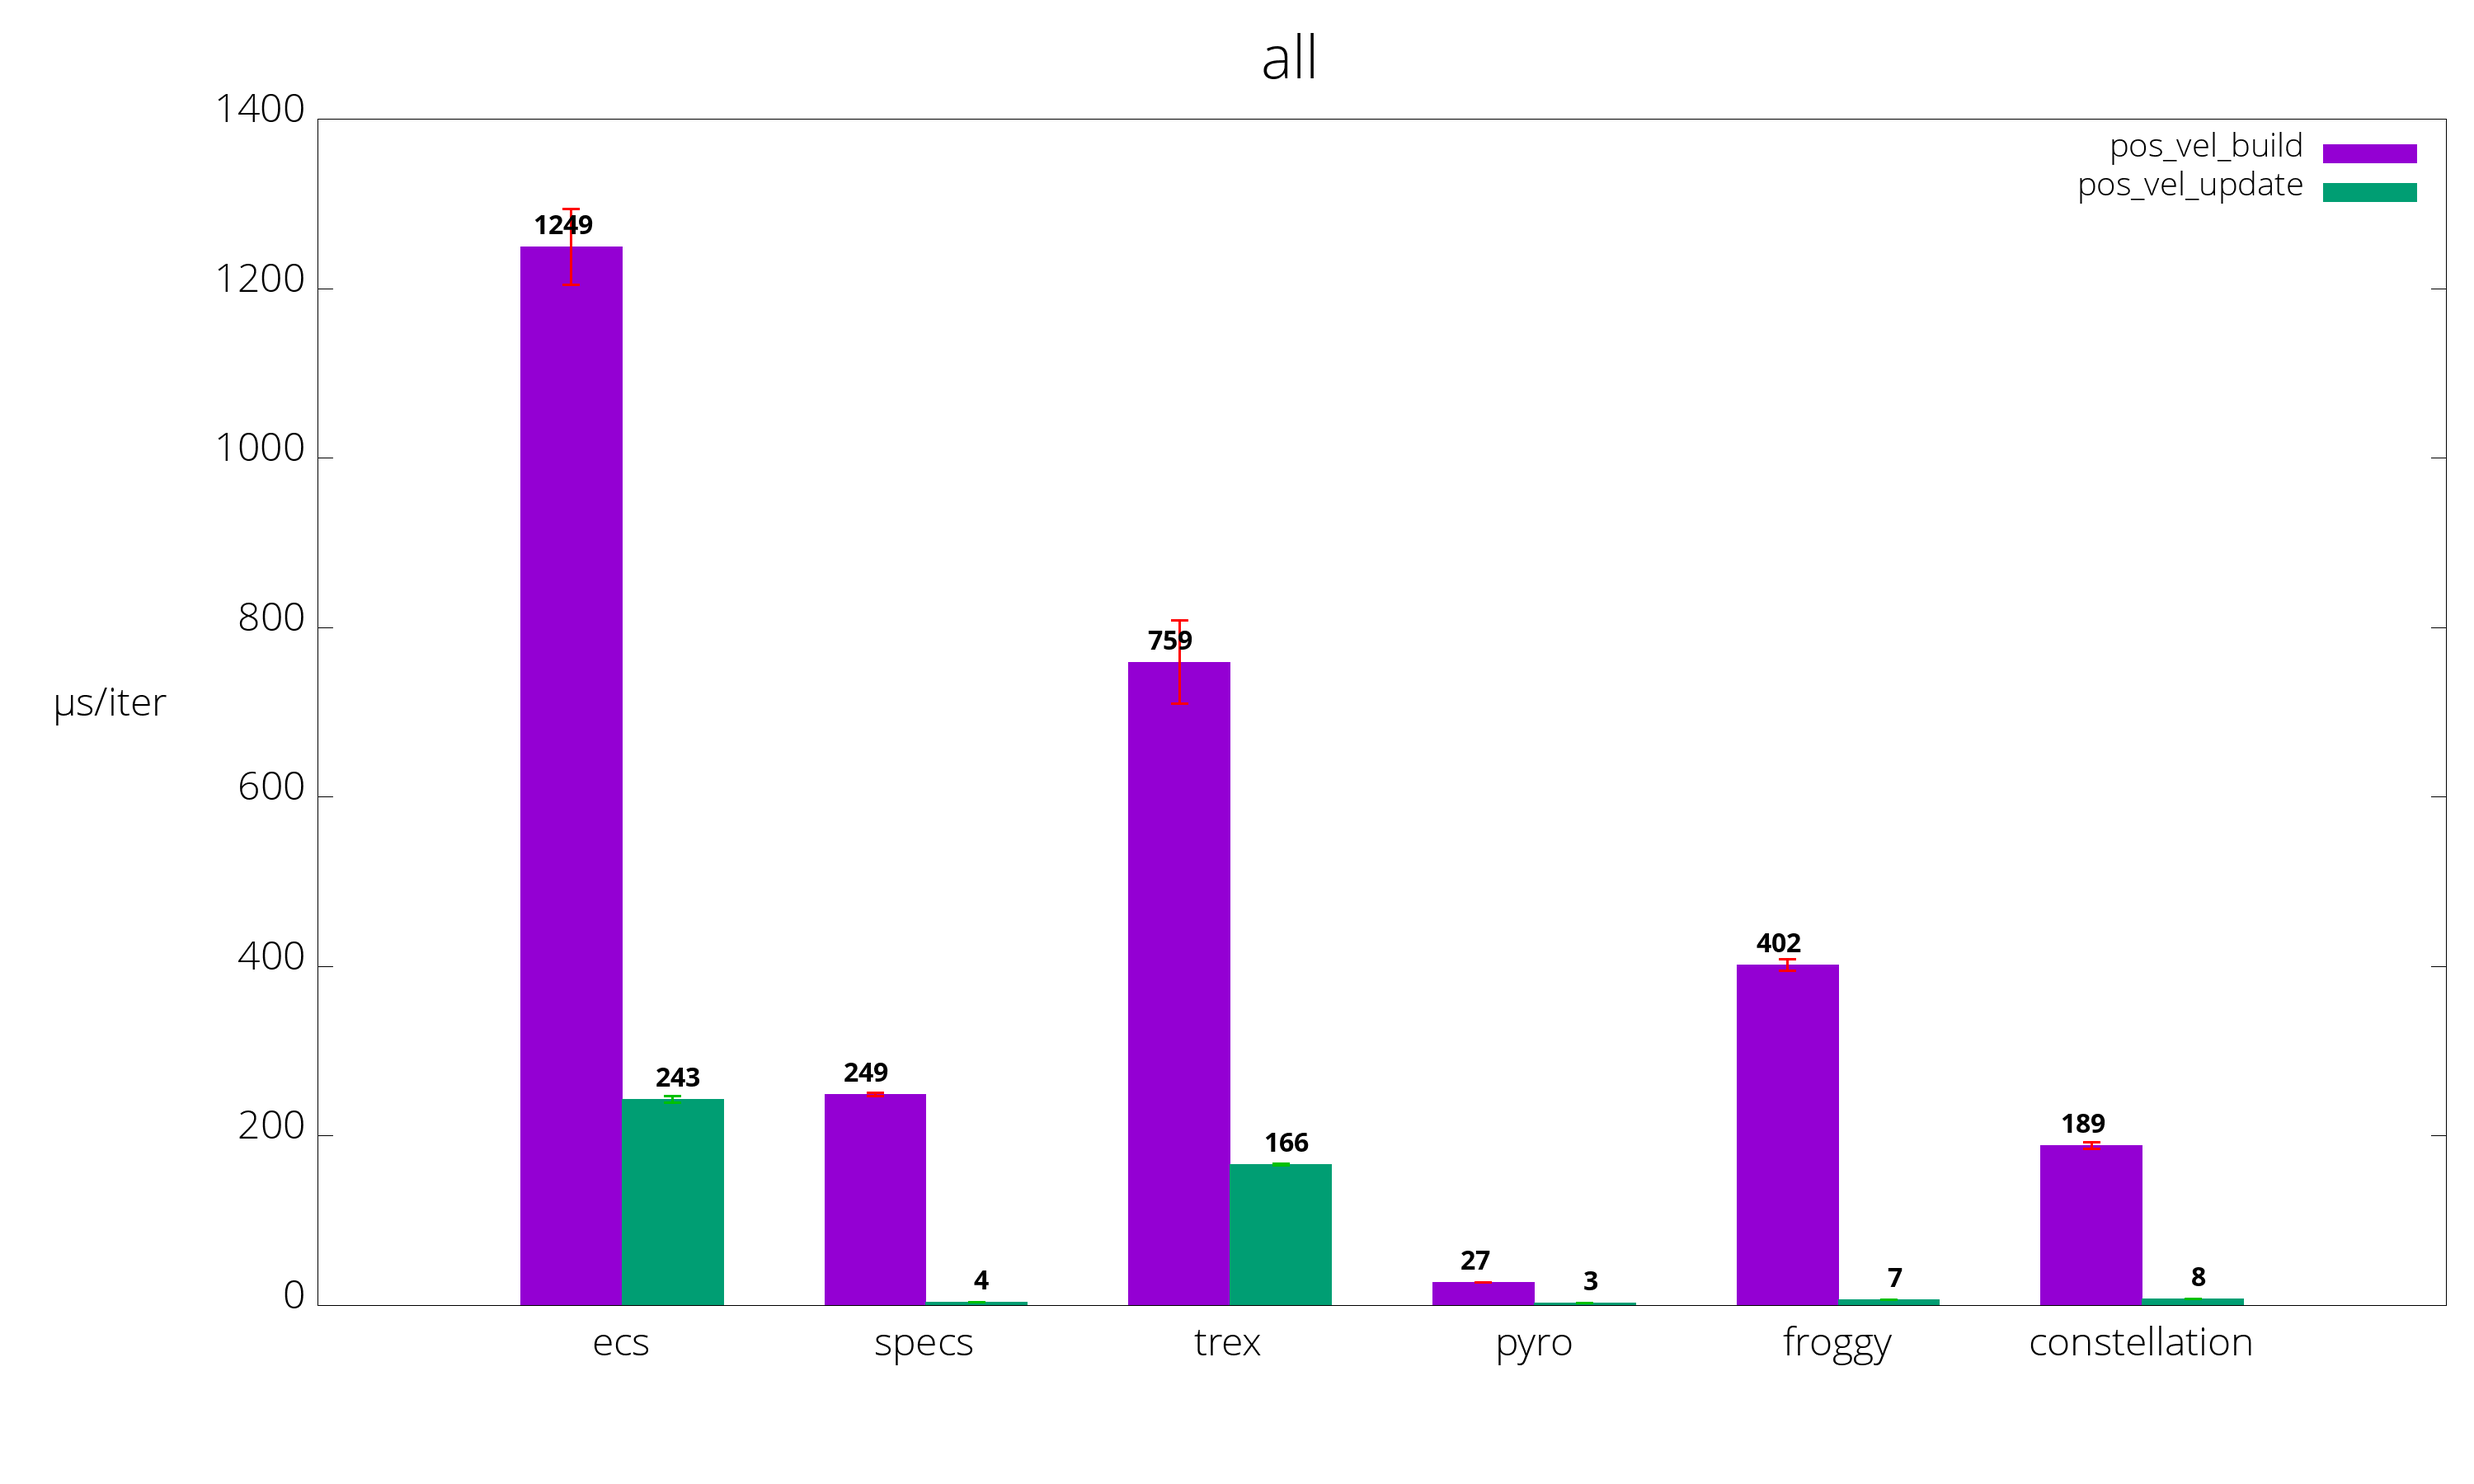
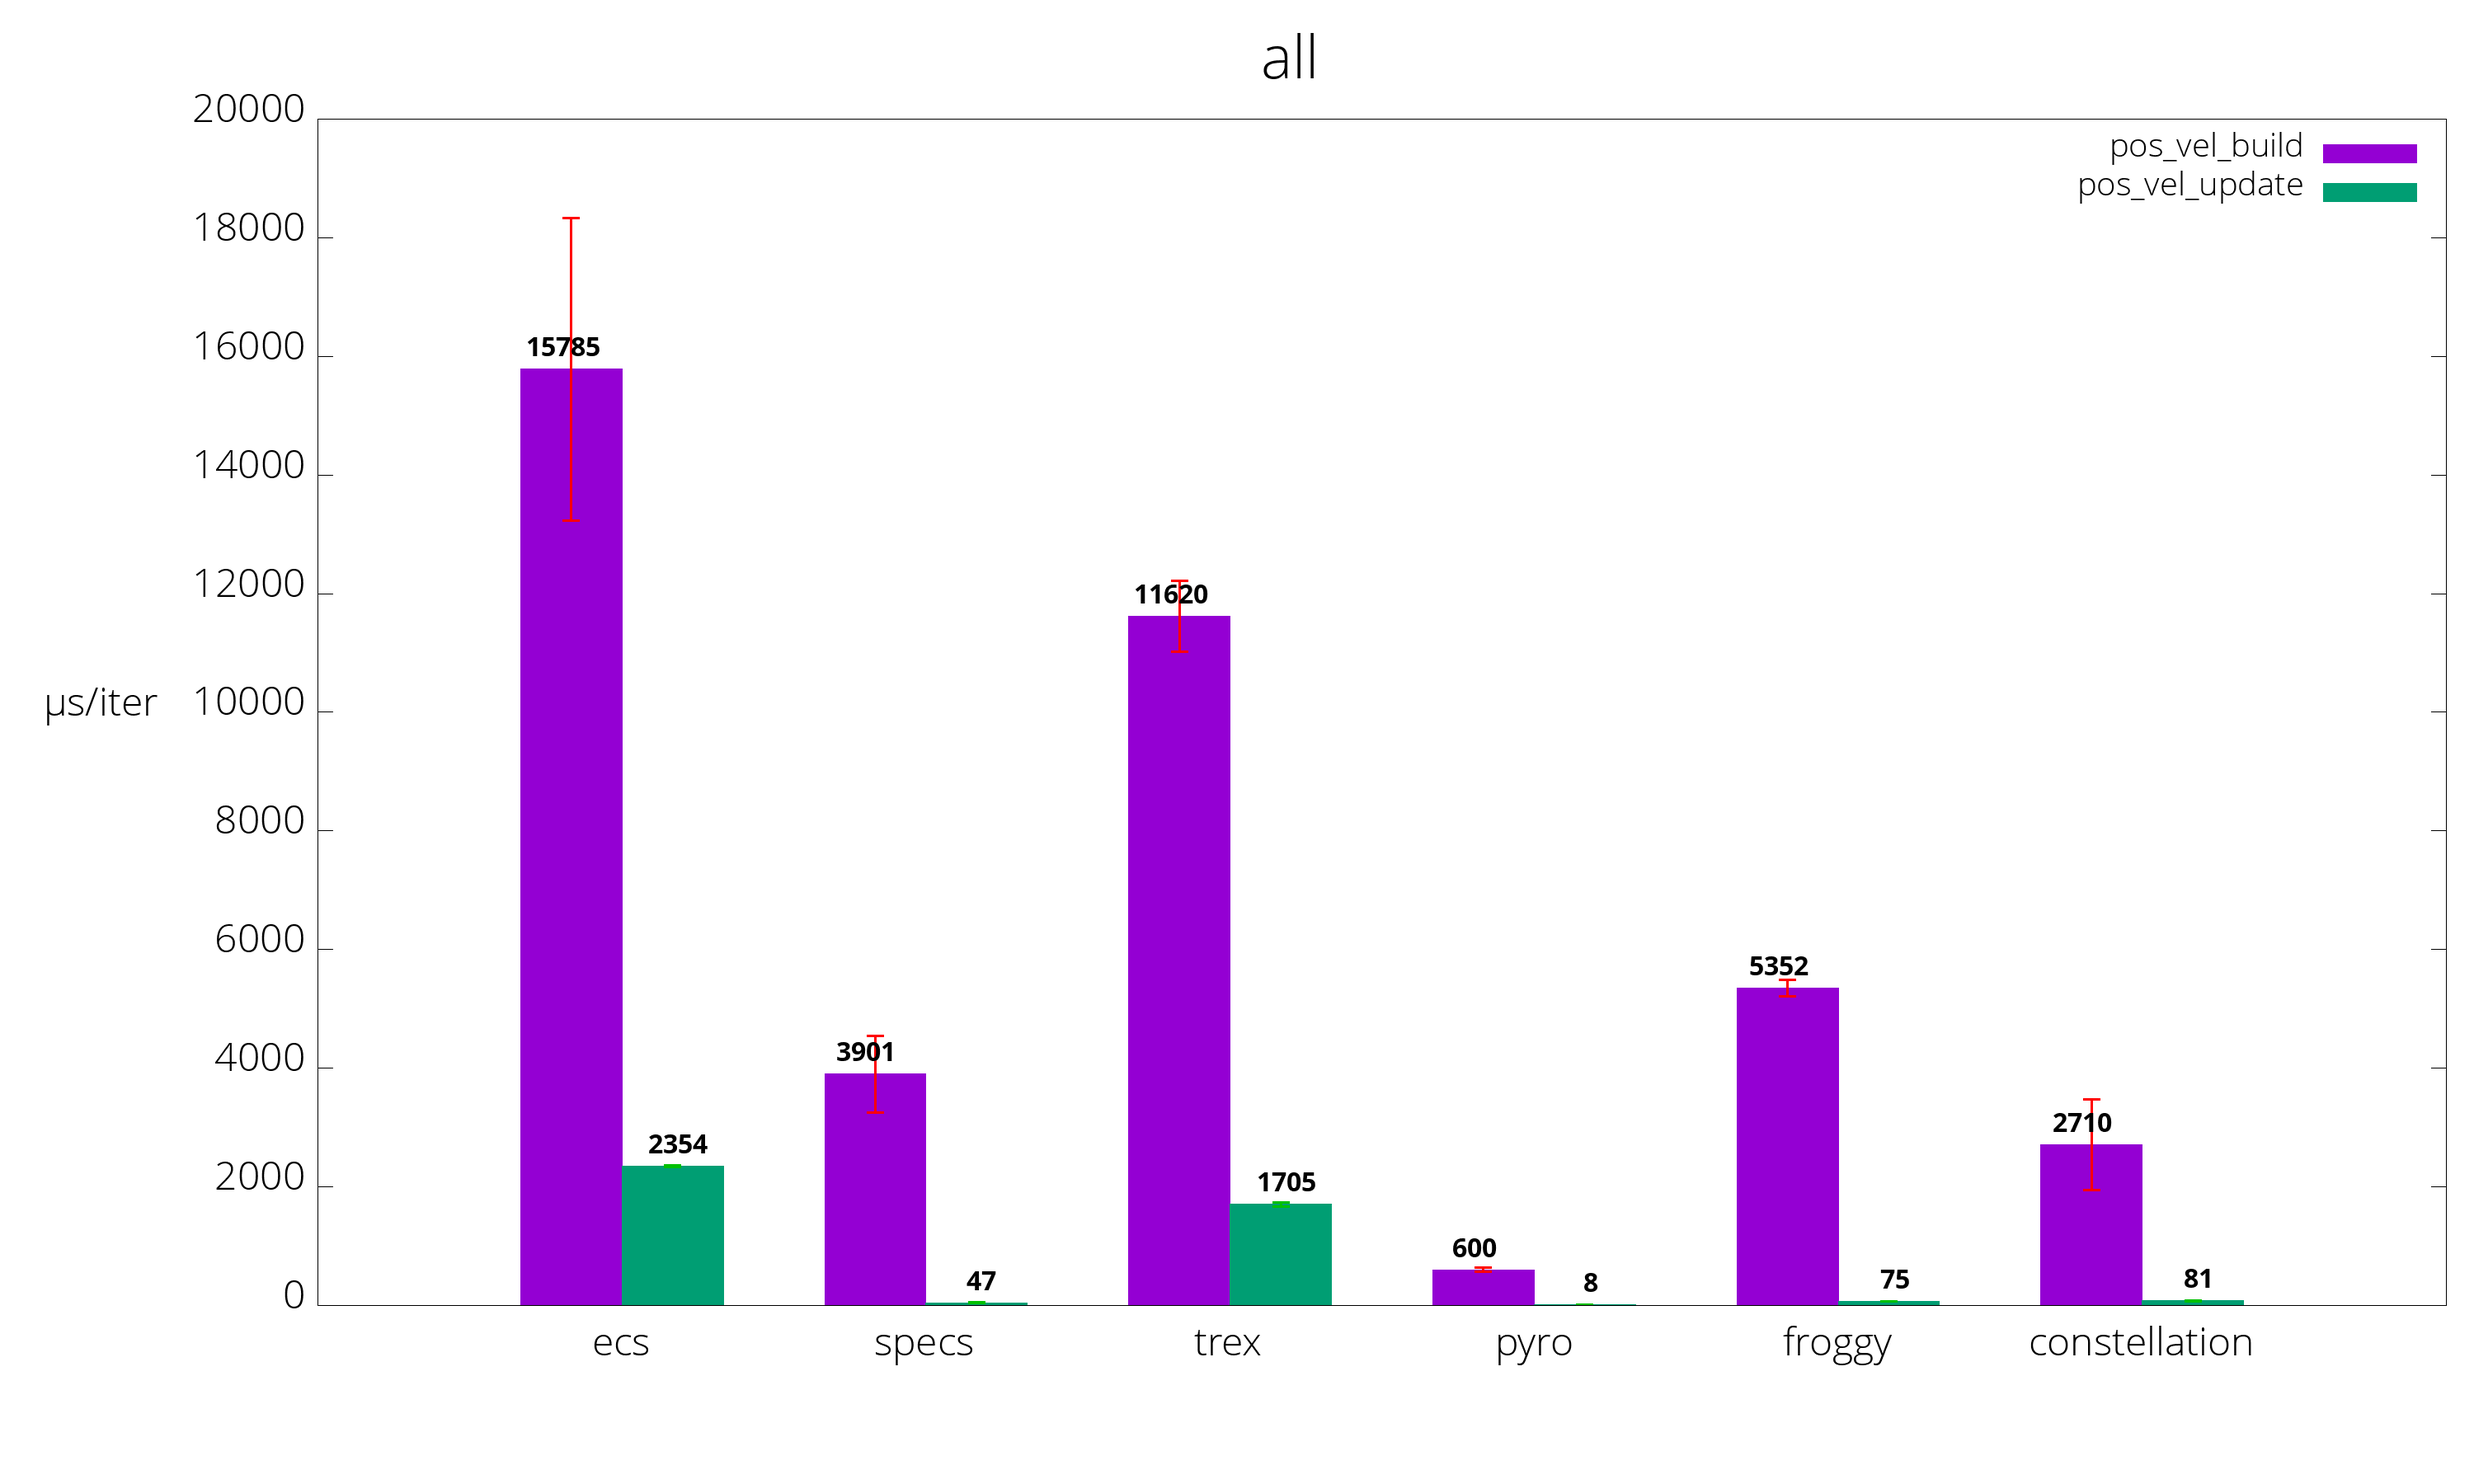
Update pyro

diff --git a/benches/pos_vel_pyro.rs b/benches/pos_vel_pyro.rs
@@ -32,8 +32,8 @@ fn build() -> World {
         .filter(|i| i % N_POS_PER_VEL == 0)
         .map(|_| (Position { x: 0.0, y: 0.0 }, Velocity { dx: 0.0, dy: 0.0 }));
 
-    world.add_entity(only_pos);
-    world.add_entity(pos_vel);
+    world.append_components(only_pos);
+    world.append_components(pos_vel);
     world
 }
 

diff --git a/src/lib.rs b/src/lib.rs
@@ -8,7 +8,7 @@ pub mod pos_vel {
     pub const N_POS_PER_VEL: usize = 10;
 
     /// Entities with position component only.
-    pub const N_POS: usize = 10000;
+    pub const N_POS: usize = 100000;
 
     #[derive(Copy, Clone, Debug, PartialEq, Serialize, Deserialize)]
     pub struct Position {

diff --git a/README.md b/README.md
@@ -8,11 +8,11 @@ Benchmarks are located in `benches/[bench_name]_[ecs_crate_name].rs`.
  Library         | pos_vel build                 | pos_vel update                 | parallel build                 | parallel update
  --------------- |:-----------------------------:|:------------------------------:|:------------------------------:|:--------------------------------:
  [calx-ecs]      | {pos_vel_build_calx_ecs}      | {pos_vel_update_calx_ecs}      | {parallel_build_calx_ecs}      | {parallel_update_calx_ecs}
- [constellation] | 189 µs/iter (+/- 4) | 8 µs/iter (+/- 0) | {parallel_build_constellation} | {parallel_update_constellation}
- [ecs]           | 1,249 µs/iter (+/- 45)           | 243 µs/iter (+/- 4)           | {parallel_build_ecs}           | {parallel_update_ecs}
- [froggy]        | 402 µs/iter (+/- 7)        | 7 µs/iter (+/- 0)        | {parallel_build_froggy}        | {parallel_update_froggy}
- [specs]         | 249 µs/iter (+/- 2)         | 4 µs/iter (+/- 0)         | {parallel_build_specs}         | {parallel_update_specs}
- [trex]          | 759 µs/iter (+/- 49)          | 166 µs/iter (+/- 1)          | {parallel_build_trex}          | {parallel_update_trex}
+ [constellation] | 2,710 µs/iter (+/- 765) | 81 µs/iter (+/- 7) | {parallel_build_constellation} | {parallel_update_constellation}
+ [ecs]           | 15,785 µs/iter (+/- 2,554)           | 2,354 µs/iter (+/- 15)           | {parallel_build_ecs}           | {parallel_update_ecs}
+ [froggy]        | 5,352 µs/iter (+/- 137)        | 75 µs/iter (+/- 0)        | {parallel_build_froggy}        | {parallel_update_froggy}
+ [specs]         | 3,901 µs/iter (+/- 645)         | 47 µs/iter (+/- 2)         | {parallel_build_specs}         | {parallel_update_specs}
+ [trex]          | 11,620 µs/iter (+/- 594)          | 1,705 µs/iter (+/- 31)          | {parallel_build_trex}          | {parallel_update_trex}
 
 [calx-ecs]: https://github.com/rsaarelm/calx-ecs
 [constellation]: https://github.com/TomGillen/constellation/
